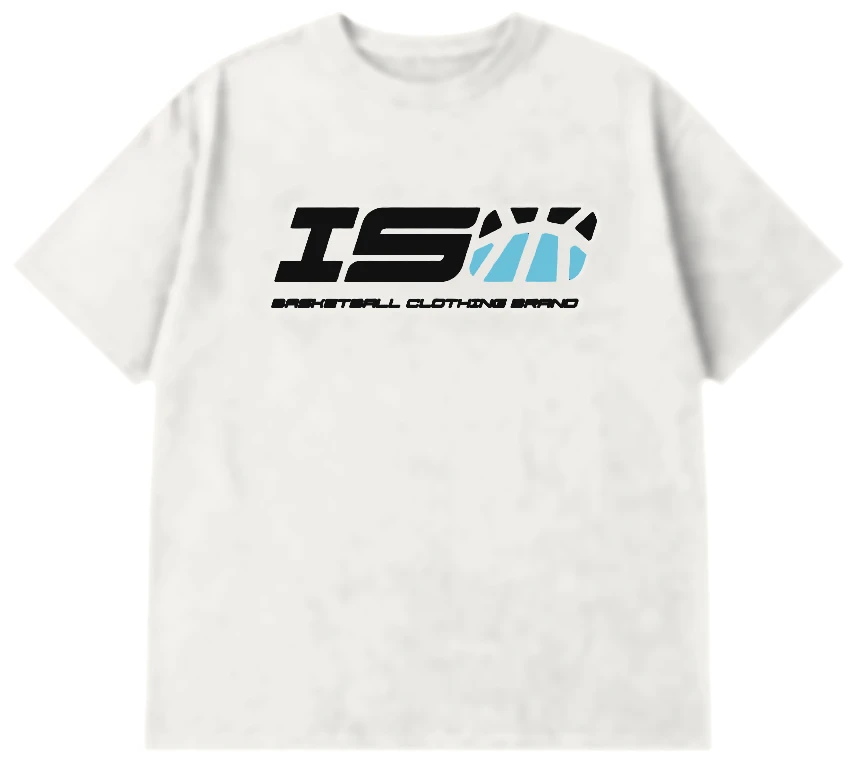
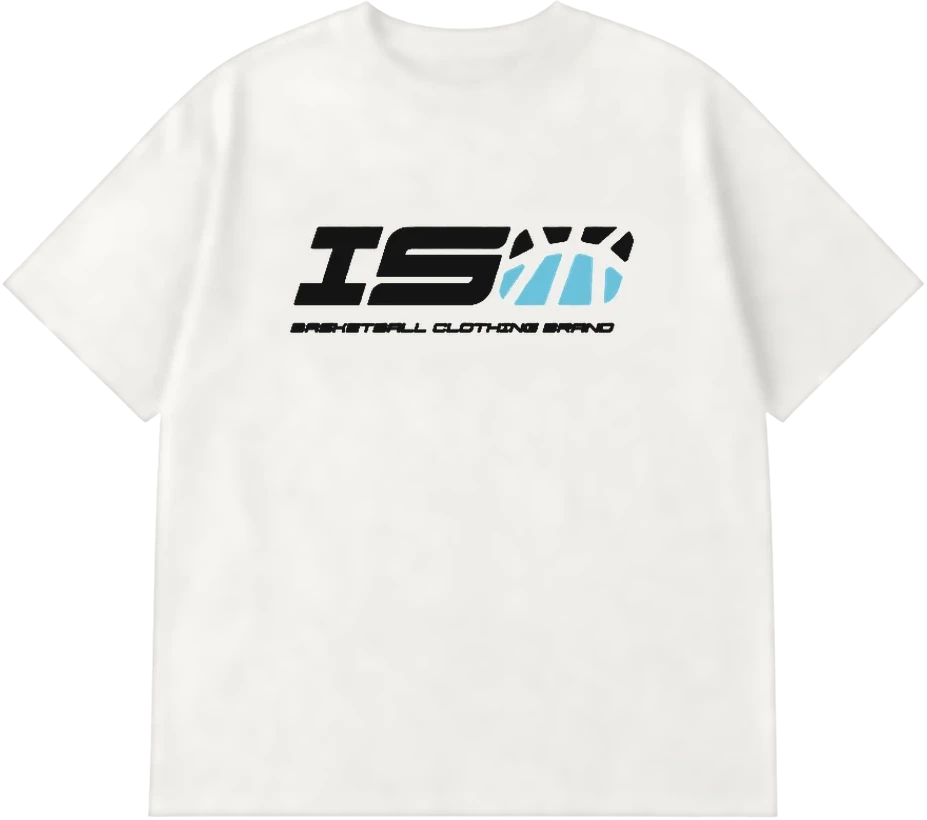
Perchero de la home al estilo de la referencia: fondo claro, prendas juntas en una barra a su medida, percha de madera con gancho cromado, ficha clara con etiquetas; mockups nuevos de los básicos
Claude-Session: https://claude.ai/code/session_01W5ky4QjpNWCBcPcfCA4882

diff --git a/src/components/rack.css b/src/components/rack.css
@@ -1,18 +1,15 @@
 /* ============ EL PERCHERO ============ */
 .rack {
   /* Tema oscuro, como el resto de la web: --ink = texto, --paper = fondo */
-  --ink: var(--white, #f2ede5);
-  --paper: #0b0b0b;
-  --muted: #8d877d;
-  --line: rgba(242, 237, 229, 0.2);
-  --gh: clamp(260px, 24vw, 400px); /* alto de la prenda colgada (fotos reales en percha) */
+  --ink: #111;
+  --paper: #f4f4f2;
+  --muted: #8b8984;
+  --line: rgba(17, 17, 17, 0.16);
+  --gh: clamp(230px, 19vw, 330px); /* alto de la prenda colgada (fotos reales en percha) */
   --hook: calc(var(--gh) * 0.125); /* espacio entre barra y cuello */
   position: relative;
-  background:
-    radial-gradient(55% 65% at 50% 58%, #333 0%, #1c1c1c 50%, var(--paper) 100%);
+  background: var(--paper);
   color: var(--ink);
-  border-top: 1px solid rgba(242, 237, 229, 0.06);
-  border-bottom: 1px solid rgba(242, 237, 229, 0.06);
   padding: clamp(2.5rem, 6vw, 5rem) 0 clamp(2rem, 4vw, 3.5rem);
   overflow: hidden;
 }
@@ -23,7 +20,7 @@
   padding: 0 var(--pad, 1.5rem);
   display: flex;
   align-items: flex-end;
-  justify-content: space-between;
+  justify-content: center;
   gap: 1rem;
   flex-wrap: wrap;
 }
@@ -39,12 +36,11 @@
 }
 
 .rack-hint {
-  font-family: var(--font-display);
-  font-weight: 700;
-  font-style: italic;
+  font-family: var(--font-body);
+  font-weight: 500;
   text-transform: uppercase;
-  letter-spacing: 0.18em;
-  font-size: 0.72rem;
+  letter-spacing: 0.14em;
+  font-size: 0.68rem;
   color: var(--muted);
 }
 .hint-touch { display: none; }
@@ -72,29 +68,28 @@
 .rack-stage {
   position: relative;
   width: max-content;
-  min-width: 100%;
   margin: 0 auto;
-  padding: clamp(2.5rem, 5vw, 4rem) clamp(2rem, 6vw, 6rem) 3.5rem;
+  padding: clamp(2.5rem, 5vw, 4rem) clamp(3rem, 6vw, 6rem) 3rem;
   display: flex;
   justify-content: center;
 }
 
 .rack-bar {
   position: absolute;
-  left: clamp(1rem, 4vw, 4rem);
-  right: clamp(1rem, 4vw, 4rem);
+  left: clamp(1rem, 2vw, 2rem);
+  right: clamp(1rem, 2vw, 2rem);
   top: calc(clamp(2.5rem, 5vw, 4rem) - 2px);
-  height: 7px;
-  border-radius: 7px;
-  background: linear-gradient(180deg, #d8d8d8 0%, #9a9a9a 45%, #5e5e5e 70%, #a8a8a8 100%);
-  box-shadow: 0 6px 12px -6px rgba(0, 0, 0, 0.8);
+  height: 5px;
+  border-radius: 5px;
+  background: linear-gradient(180deg, #f2f2f2 0%, #bdbdbd 45%, #8a8a8a 70%, #d4d4d4 100%);
+  box-shadow: 0 4px 8px -4px rgba(0, 0, 0, 0.35);
 }
 .rack-knob {
   position: absolute;
   top: 50%;
-  width: 16px;
-  height: 16px;
-  margin-top: -8px;
+  width: 11px;
+  height: 11px;
+  margin-top: -5.5px;
   border-radius: 50%;
   background: radial-gradient(circle at 35% 35%, #f4f4f4, #9a9a9a 70%);
   box-shadow: 0 2px 4px rgba(0, 0, 0, 0.25);
@@ -115,8 +110,9 @@
   --swing: 0deg;
   --shade: 1;
   position: relative;
-  margin-inline: calc(var(--gh) * -0.05);
+  margin-inline: calc(var(--gh) * -0.1);
   perspective: 1100px;
+  transition: opacity 0.35s ease;
 }
 
 .rack-garment {
@@ -143,28 +139,18 @@
 /* ---- Percha ----
    Escala: la percha mide 0.6·gh de ancho → 1 unidad SVG = 0.003·gh.
    Gancho por encima de la barra y tallo que se mete por el cuello (detrás de la prenda). */
-.rack-hook {
+.rack-hanger {
   position: absolute;
-  top: calc(-6px - var(--gh) * 0.012);
+  top: calc(-6px - var(--gh) * 0.03);
   left: 50%;
-  width: calc(var(--gh) * 0.072);
-  height: calc(var(--gh) * 0.138);
+  height: calc(var(--hook) + 8px + var(--gh) * 0.03);
+  width: auto;
+  aspect-ratio: 40 / 64;
+  transform: translateX(-50%);
   overflow: visible;
-  transform: translateX(-50%);
   pointer-events: none;
 }
-.rack-hook path { stroke: #a3a3a3; }
-.rack-hook-stem {
-  position: absolute;
-  top: calc(-6px + var(--gh) * 0.1);
-  left: 50%;
-  width: calc(var(--gh) * 0.0096);
-  height: calc(var(--hook) - var(--gh) * 0.1 + 6px + var(--gh) * 0.05);
-  border-radius: 2px;
-  background: #a3a3a3;
-  transform: translateX(-50%);
-  pointer-events: none;
-}
+.rack-big .rack-hanger { top: -4px; height: calc(var(--hook) + 6px); }
 
 /* ---- Prenda (dos caras) ---- */
 .rack-flip {
@@ -176,6 +162,7 @@
   transform-style: preserve-3d;
   transition: opacity 0.25s;
 }
+.rack-items:hover .rack-item:not(.is-hover) { opacity: 0.72; }
 .rack-face {
   display: block;
   height: 100%;
@@ -184,7 +171,7 @@
   backface-visibility: hidden;
   -webkit-backface-visibility: hidden;
   user-select: none;
-  filter: brightness(var(--shade)) drop-shadow(0 18px 18px rgba(0, 0, 0, 0.55)) drop-shadow(0 0 1px rgba(255, 255, 255, 0.12));
+  filter: brightness(var(--shade)) drop-shadow(0 14px 14px rgba(0, 0, 0, 0.16));
 }
 .rack-face.back {
   position: absolute;
@@ -193,29 +180,27 @@
   transform: translateX(-50%) rotateY(180deg);
 }
 .rack-item.is-picked .rack-flip,
-.rack-item.is-picked .rack-hook,
-.rack-item.is-picked .rack-hook-stem { opacity: 0; }
+.rack-item.is-picked .rack-hanger { opacity: 0; }
 
 .rack-caption {
   min-height: 1.4em;
-  margin-top: -1.2rem;
+  margin-top: -0.6rem;
   text-align: center;
-  font-family: var(--font-display);
-  font-weight: 700;
-  font-style: italic;
+  font-family: var(--font-body);
+  font-weight: 500;
   text-transform: uppercase;
-  letter-spacing: 0.16em;
-  font-size: 0.8rem;
+  letter-spacing: 0.12em;
+  font-size: 0.72rem;
   color: var(--muted);
 }
 .rack-caption-price { margin-left: 0.9em; color: var(--ink); }
 
 /* ============ DETALLE ============ */
 .rack-detail {
-  --ink: var(--white, #f2ede5);
-  --paper: #0b0b0b;
-  --muted: #8d877d;
-  --line: rgba(242, 237, 229, 0.2);
+  --ink: #111;
+  --paper: #f4f4f2;
+  --muted: #8b8984;
+  --line: rgba(17, 17, 17, 0.16);
   position: fixed;
   inset: 0;
   z-index: 250; /* por encima del navbar (200), por debajo del carrito (299) */
@@ -224,14 +209,14 @@
   overflow-y: auto;
   padding: 4.5rem 1rem 2rem;
   color: var(--ink);
-  background: rgba(11, 11, 11, 0.86);
+  background: rgba(244, 244, 242, 0.88);
   -webkit-backdrop-filter: blur(16px) saturate(0.85);
   backdrop-filter: blur(16px) saturate(0.85);
   animation: rack-fade 0.35s ease both;
 }
 .rack-detail.is-closing { animation: rack-fade-out 0.42s ease both; }
 @keyframes rack-fade { from { opacity: 0; } }
-@keyframes rack-fade-out { to { background: rgba(11, 11, 11, 0); -webkit-backdrop-filter: blur(0); backdrop-filter: blur(0); } }
+@keyframes rack-fade-out { to { background: rgba(244, 244, 242, 0); -webkit-backdrop-filter: blur(0); backdrop-filter: blur(0); } }
 .rack-detail.is-closing .rack-info,
 .rack-detail.is-closing .rack-tags,
 .rack-detail.is-closing .rack-close,
@@ -288,15 +273,15 @@
   font-size: 0.62rem;
   letter-spacing: 0.2em;
   text-transform: uppercase;
-  background: #e86a3a;
-  color: #fff;
+  background: var(--accent, #7ec8e3);
+  color: #071820;
   border-radius: 3px 3px 2px 2px;
   box-shadow: 0 6px 10px -4px rgba(0, 0, 0, 0.3);
   transform-origin: 50% -38px;
   animation: rack-tag-sway 3.2s ease-in-out infinite alternate;
 }
 .rack-tag:nth-child(2) { animation-delay: -1.2s; margin-top: 52px; transform-origin: 50% -52px; }
-.rack-tag.dark { background: var(--accent, #7ec8e3); color: #071820; }
+.rack-tag.dark { background: #111; color: #f4f4f2; }
 .rack-tag::before {
   content: "";
   position: absolute;
@@ -330,27 +315,24 @@
   transition: opacity 0.25s;
 }
 .rack-info-cat {
-  font-family: var(--font-display);
-  font-weight: 700;
-  font-style: italic;
+  font-family: var(--font-body);
+  font-weight: 500;
   text-transform: uppercase;
-  letter-spacing: 0.2em;
-  font-size: 0.72rem;
+  letter-spacing: 0.14em;
+  font-size: 0.68rem;
   color: var(--muted);
 }
 .rack-info-name {
-  font-family: var(--font-display);
-  font-weight: 900;
-  font-style: italic;
+  font-family: var(--font-body);
+  font-weight: 600;
   text-transform: uppercase;
-  font-size: clamp(1.8rem, 4.5vw, 2.6rem);
-  line-height: 0.92;
-  letter-spacing: -0.01em;
+  font-size: 0.95rem;
+  letter-spacing: 0.12em;
 }
 .rack-info-price {
-  font-family: var(--font-display);
-  font-weight: 700;
-  font-size: 1.05rem;
+  font-family: var(--font-body);
+  font-size: 0.85rem;
+  color: var(--muted);
   letter-spacing: 0.06em;
 }
 
@@ -392,18 +374,17 @@
   min-width: min(320px, 100%);
   padding: 0.95rem 1.6rem;
   border-radius: 999px;
-  background: var(--accent, #7ec8e3);
-  color: #071820;
-  font-family: var(--font-display);
-  font-weight: 900;
-  font-style: italic;
+  background: var(--ink);
+  color: var(--paper);
+  font-family: var(--font-body);
+  font-weight: 600;
   text-transform: uppercase;
-  letter-spacing: 0.12em;
-  font-size: 0.95rem;
+  letter-spacing: 0.14em;
+  font-size: 0.78rem;
   transition: transform 0.15s, opacity 0.2s;
 }
 .rack-cta:hover:not(:disabled) { transform: translateY(-1px); }
-.rack-cta:disabled { opacity: 0.35; cursor: default; }
+.rack-cta:disabled { background: #d6d5d1; color: #8b8984; cursor: default; }
 
 .rack-guide {
   font-size: 0.75rem;
@@ -455,7 +436,7 @@
   .rack-item { scroll-snap-align: center; margin-inline: calc(var(--gh) * -0.02); }
   .rack-big { --gh: min(40vh, 330px); --hook: calc(var(--gh) * 0.125); }
   .rack-tags { left: calc(50% + var(--gh) * 0.3); }
-  .rack-arrow { top: calc(4.5rem + min(40vh, 330px) * 0.85); width: 44px; height: 44px; background: rgba(11, 11, 11, 0.9); }
+  .rack-arrow { top: calc(4.5rem + min(40vh, 330px) * 0.85); width: 44px; height: 44px; background: rgba(244, 244, 242, 0.92); }
 }
 
 /* Táctil: botones cómodos para el dedo */

diff --git a/src/components/RackReact.tsx b/src/components/RackReact.tsx
@@ -63,15 +63,25 @@ function prefersReducedMotion() {
 }
 
 // --- Percha ---
-// La percha va "dentro" de la prenda: solo se ve el gancho metálico saliendo por el cuello.
+// Gancho cromado que sale de la barra y la pieza de madera de la percha asomando por el cuello.
 function Hanger() {
   return (
-    <>
-      <span className="rack-hook-stem" aria-hidden="true" />
-      <svg className="rack-hook" viewBox="88 -4 24 46" aria-hidden="true">
-        <path d="M100 42 L100 22 C100 14 108 12 108 6 C108 0 100 -2 95 2" fill="none" strokeWidth="3.2" strokeLinecap="round" />
-      </svg>
-    </>
+    <svg className="rack-hanger" viewBox="0 0 40 64" aria-hidden="true">
+      <defs>
+        <linearGradient id="rk-chrome" x1="0" x2="1">
+          <stop offset="0" stopColor="#7d7d7d" />
+          <stop offset="0.45" stopColor="#e6e6e6" />
+          <stop offset="1" stopColor="#8f8f8f" />
+        </linearGradient>
+        <linearGradient id="rk-wood" x1="0" x2="0" y1="0" y2="1">
+          <stop offset="0" stopColor="#d9b07a" />
+          <stop offset="1" stopColor="#a87443" />
+        </linearGradient>
+      </defs>
+      <path d="M20 50 L20 26 C20 18 28 16 28 9 C28 2 20 0 15 4" fill="none" stroke="url(#rk-chrome)" strokeWidth="2.6" strokeLinecap="round" />
+      <path d="M12 50 Q20 46 28 50 L30 60 Q20 63 10 60 Z" fill="url(#rk-wood)" />
+      <circle cx="20" cy="51" r="1.4" fill="#c9c9c9" />
+    </svg>
   );
 }
 
@@ -481,8 +491,8 @@ export default function RackReact({ products: initial, title = "El Perchero", pr
                 )}
               </div>
               <div className="rack-tags" aria-hidden="true">
-                {current.color && <span className="rack-tag dark">{current.color}</span>}
-                {current.tag && <span className="rack-tag">{current.tag}</span>}
+                <span className="rack-tag dark">ISO</span>
+                <span className="rack-tag">{current.tag ?? current.color ?? "Basketball"}</span>
               </div>
             </div>
 

diff --git a/src/data/isolation-drop.ts b/src/data/isolation-drop.ts
@@ -80,7 +80,7 @@ const classicTee = (color: string, front: string, back: string): DropProduct => 
 });
 
 export const ISO_CLASSICS: DropProduct[] = [
-  classicTee("Black", "/rack/tee-icon-front.webp", "/rack/tee-icon-back.webp"),
+  classicTee("Black", "/rack/classic-black-front.webp", "/rack/classic-black-back.webp"),
   classicTee("White", "/rack/classic-white-front.webp", "/rack/classic-white-back.webp"),
   {
     id: "iso-classic-hoodie-black",
